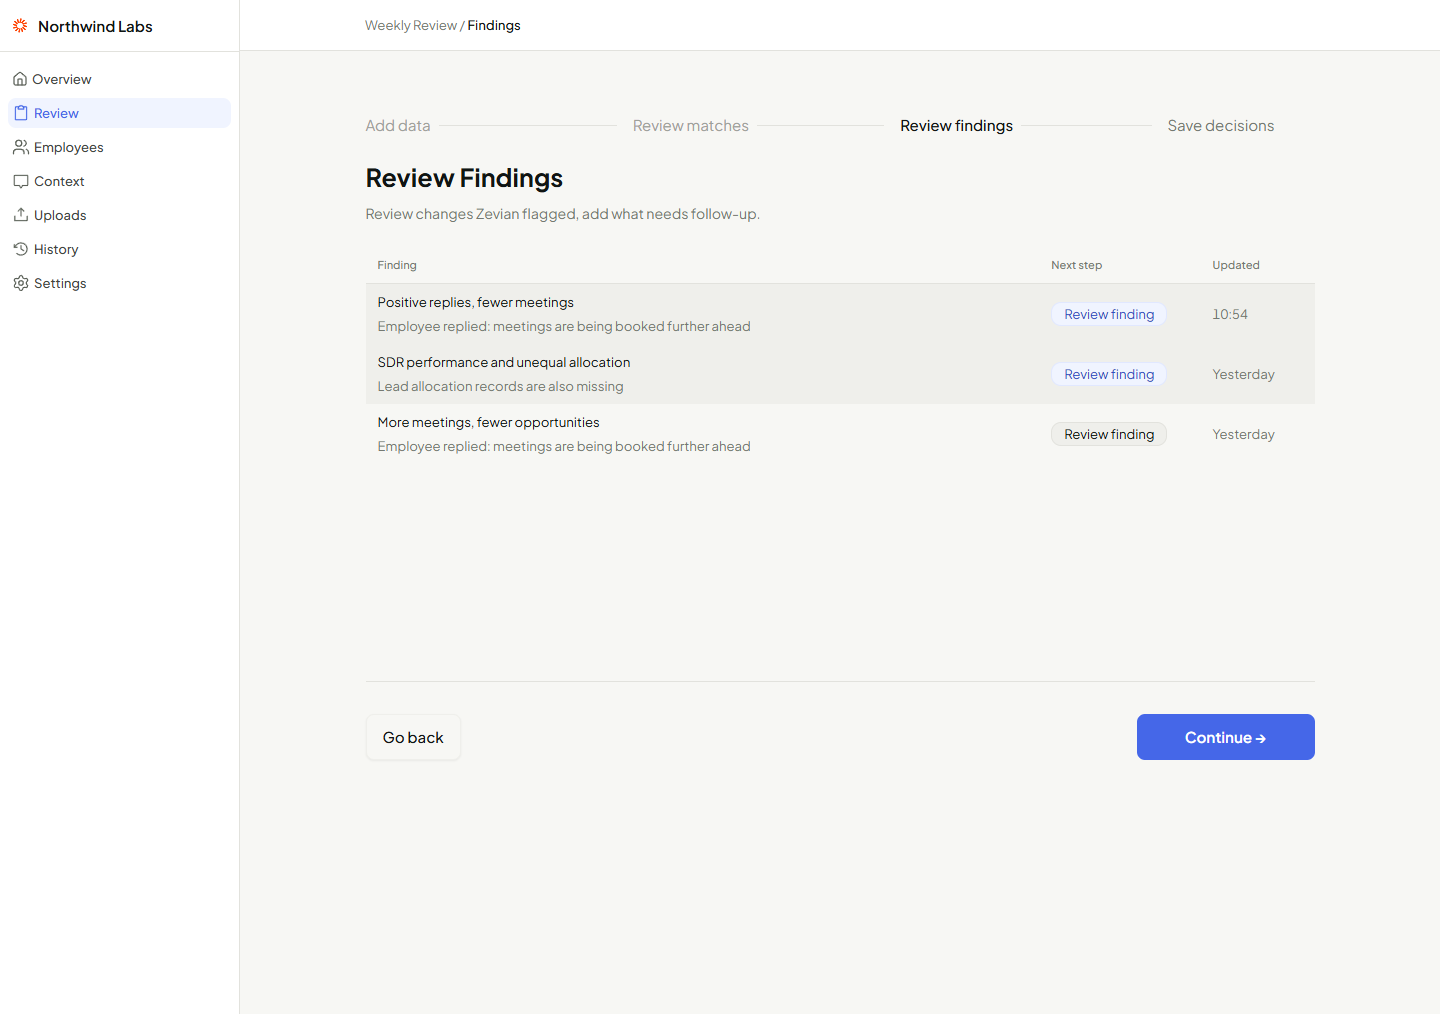
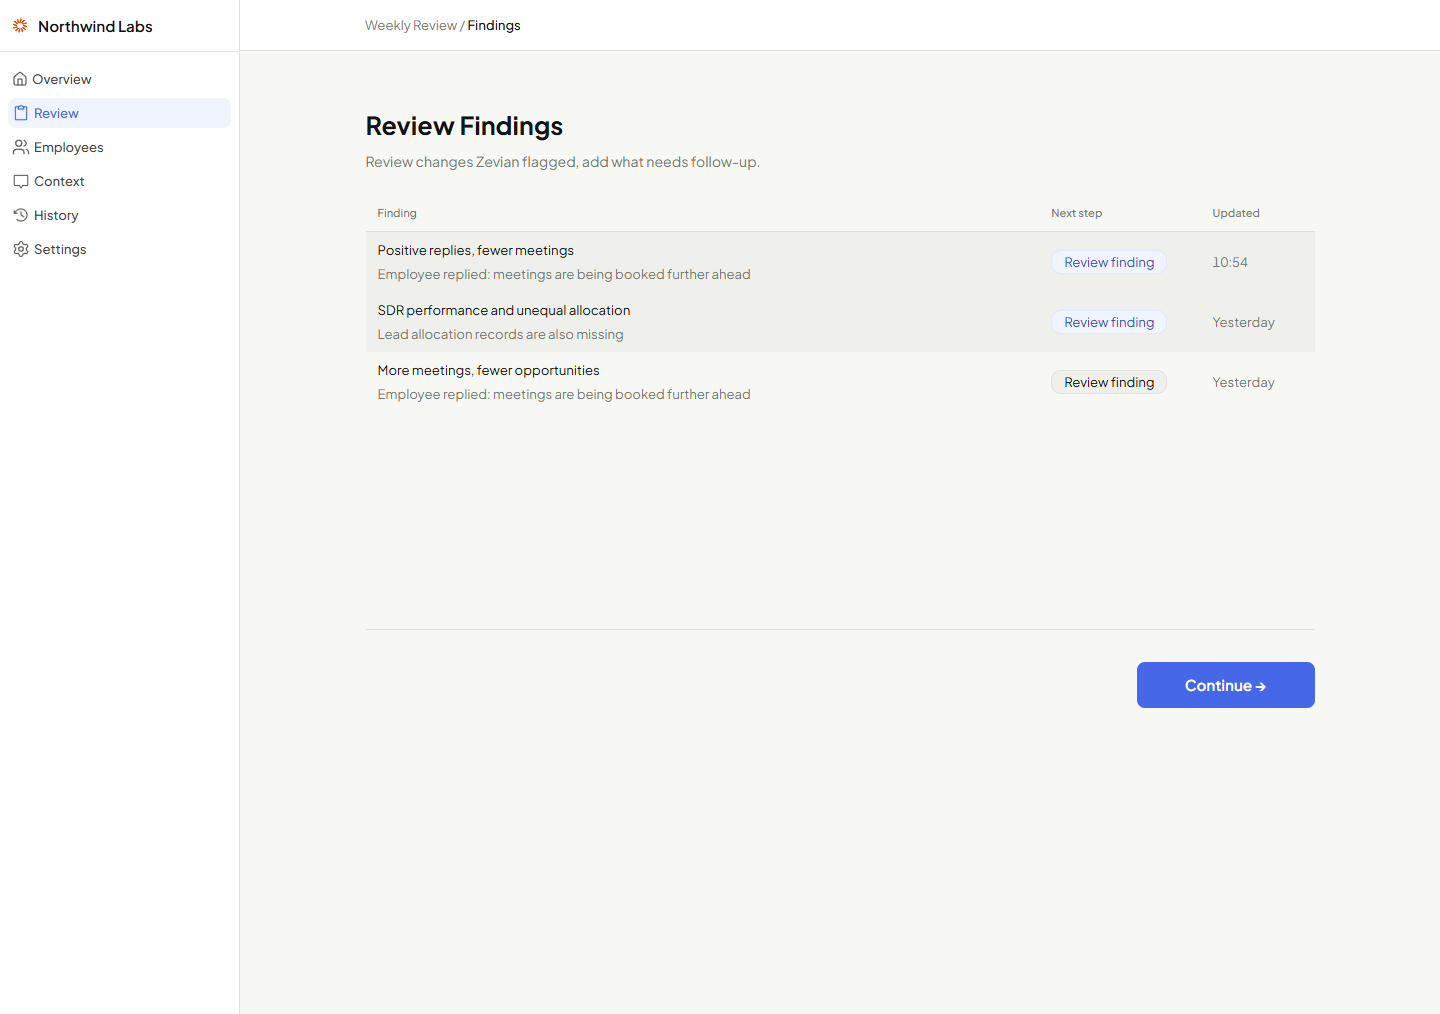
Open prototype directly on current findings and bypass imports

diff --git a/outputs/assets/zevian-review-drawer.js b/outputs/assets/zevian-review-drawer.js
@@ -210,19 +210,31 @@ if(v4Preview&&new URLSearchParams(location.search).has('drawer-variant')){
   closeFindingDrawer(false);const variant=new URLSearchParams(location.search).get('drawer-variant');const p=reviewFigmaExample(variant);
   state.patterns=[p];patternsScreen();const view=reviewView(p.id);view.cause=view.context=view.records=variant!=='collapsed';openFindingDrawer(p.id);
 }else {
+  document.body.classList.add('findings-only');
   patternsScreen=function(){
-    if(v4NeedsNameReview())return;
     findingDesignEnsureSample();
     render(v4Header('Review Findings','Review changes Zevian flagged, add what needs follow-up.','')+'<div class="finding-scroll"><table class="findings-table design-findings-table"><thead><tr><th>Finding</th><th>Next step</th><th>Updated</th></tr></thead><tbody>'+state.patterns.map(p=>{
       const reviewed=isReviewed(p),m=findingDesignModel(p),label=p.findingDesign?({'design-campaign':'Positive replies, fewer meetings','design-individual':'SDR performance and unequal allocation','design-pipeline':'More meetings, fewer opportunities'}[p.id]):m.title;
       const sub=p.findingDesign?(p.id==='design-individual'?'Lead allocation records are also missing':'Employee replied: meetings are being booked further ahead'):p.contexts.length?'Context added':v4FindingValue(p.signal,p.signal.baseline)+' → '+v4FindingValue(p.signal,p.signal.value);
       return '<tr class="finding-row '+(!p.readAt?'design-attention':'')+'" id="finding-'+p.id+'" data-read="'+!!p.readAt+'" data-action="drawer:'+p.id+'" tabindex="0" aria-label="'+(p.readAt?'Read':'Unread')+' finding: '+esc(m.title)+'"><td><span class="finding-label">'+esc(label)+'</span><span class="finding-sub">'+esc(sub)+'</span></td><td><button class="finding-badge '+(reviewed||p.readAt?'neutral':'')+'" data-action="drawer:'+p.id+'">'+(reviewed?'Reviewed':'Review finding')+'</button></td><td>'+esc(p.findingDesign?(p.id==='design-campaign'?'10:54':'Yesterday'):formatDate(p.decisionDate||p.period))+'</td></tr>';
-    }).join('')+'</tbody></table>'+(!state.patterns.length?'<p class="muted">No findings available. Add earlier periods to compare performance.</p>':'')+'</div><div class="flow-footer">'+button('Go back','mapping')+button('Continue →','decisions',true)+'</div>','patterns',2);
+    }).join('')+'</tbody></table>'+(!state.patterns.length?'<p class="muted">No findings available.</p>':'')+'</div><div class="flow-footer findings-footer">'+button('Continue →','decisions',true)+'</div>','patterns',2);
   };
-  actions.patterns=patternsScreen;
+  // Temporarily bypass data entry. Keep the import code available for a later release.
+  uploadScreen=mappingScreen=weeklyReviewScreen=patternsScreen;
+  Object.assign(actions,{patterns:patternsScreen,resume:patternsScreen,upload:patternsScreen,mapping:patternsScreen,sample:patternsScreen,manual:patternsScreen,choose:patternsScreen,detect:patternsScreen});
+  $('overviewNav').onclick=$('reviewNav').onclick=$('uploadNav').onclick=patternsScreen;
   if(v4Preview&&!['upload','match'].includes(new URLSearchParams(location.search).get('screen'))){
     const screen=new URLSearchParams(location.search).get('screen');closeFindingDrawer(false);state.patterns=findingDesignExamples();patternsScreen();
     if(['drawer','context'].includes(screen)){const params=new URLSearchParams(location.search),p=state.patterns.find(p=>p.id==='design-'+params.get('finding'))||state.patterns[0];reviewView(p.id).tab=Math.min(p.findingDesign.tabs.length-1,Math.max(0,Number(params.get('tab'))||0));openFindingDrawer(p.id);}
-  }else if($('findingDrawer'))openFindingDrawer(selected.id);
-  else if(mode==='patterns')patternsScreen();
+  }else {
+    closeFindingDrawer(false);
+    const examples=findingDesignExamples(),current=state.patterns;
+    // Keep decisions, context and read status only for the current prototype models.
+    state={upload:{id:'findings-prototype',file:'Prototype examples',sample:true,mappingStatus:'confirmed',period:'2026-10-07',demoVersion:2},columns:[],rows:[],mapping:[],records:[],history:state.upload?.id==='findings-prototype'?state.history:[],patterns:examples.map(example=>{
+      const previous=current.find(p=>p.id===example.id&&p.findingDesign);
+      if(!previous)return example;
+      return {...example,readAt:previous.readAt,contexts:previous.contexts||[],contextRequest:previous.contextRequest,investigationDecision:previous.investigationDecision,diagnosis:previous.diagnosis,status:previous.status,decisionDate:previous.decisionDate};
+    })};
+    persist();patternsScreen();
+  }
 }

diff --git a/outputs/zevian-manager-workflow.html b/outputs/zevian-manager-workflow.html
@@ -76,7 +76,7 @@ body.drawer-open{overflow:hidden}.finding-row{cursor:pointer}.finding-row:hover{
 const $=id=>document.getElementById(id),esc=v=>String(v??'').replace(/[&<>"']/g,c=>({'&':'&amp;','<':'&lt;','>':'&gt;','"':'&quot;',"'":'&#39;'}[c]));
 const fields={rep:'Rep name',period:'Reporting date',calls:'Calls',emails:'Emails',connects:'Connects',connect_rate:'Connect rate',meetings_booked:'Meetings booked',meetings_held:'Meetings held',reply_rate:'Reply rate',opportunities:'Opportunities created',pipeline:'Pipeline created',no_shows:'No-shows',cancellations:'Cancellations',revenue:'Revenue booked',qa:'QA score'};
 const aliases={rep:['rep','rep_name','name','employee_name','sdr_name'],period:['period','week','date','week_start'],opportunities:['opportunities_created'],pipeline:['pipeline_created'],revenue:['revenue_booked'],qa:['qa_score']};
-let saved;try{saved=JSON.parse(localStorage.getItem('zevian_diagnosis_v1'))}catch{}
+let saved;try{saved=JSON.parse(localStorage.getItem('zevian_findings_prototype_v1'))}catch{}
 let state=saved&&Array.isArray(saved.patterns)&&Array.isArray(saved.history)?saved:{upload:null,columns:[],rows:[],mapping:[],records:[],patterns:[],history:[]};
 let stage=0,selected=null,mode='upload',draftNote='',editingContext=null;
 // Reporting dates are date-only values: use UTC to avoid shifting the day.
@@ -84,7 +84,7 @@ function formatDate(value){if(!value)return 'Date unavailable';const date=new Da
 function formatTimestamp(value){const date=new Date(value);return Number.isNaN(date.getTime())?'Date unavailable':new Intl.DateTimeFormat('en-GB',{day:'numeric',month:'short',year:'numeric',hour:'2-digit',minute:'2-digit',hour12:false,timeZoneName:'short'}).format(date)}
 function plural(count,noun){return count+' '+noun+(count===1?'':'s')}
 function statusLabel(status){return ({needs_context:'Ready for review',diagnosis_created:'Explanation ready',monitoring:'Marked for monitoring',dismissed:'Dismissed',known_issue:'Known issue',explained:'Explained',action_recorded:'Action saved',waiting_for_data:'Waiting for new data'})[status]||'Ready for review'}
-function persist(){try{localStorage.setItem('zevian_diagnosis_v1',JSON.stringify(state));return true}catch{notify('Browser storage is unavailable. This review is kept only while the page is open.');return false}}
+function persist(){try{localStorage.setItem('zevian_findings_prototype_v1',JSON.stringify(state));return true}catch{notify('Browser storage is unavailable. This review is kept only while the page is open.');return false}}
 function notify(message){$('toast').textContent=message;$('toast').classList.remove('hidden');clearTimeout(notify.timer);notify.timer=setTimeout(()=>$('toast').classList.add('hidden'),4000)}
 function render(html,nextMode,nextStage){mode=nextMode;stage=nextStage;$('screen').innerHTML=html;$('crumb').textContent='Weekly SDR review / '+({upload:'Upload data',mapping:'Match columns',patterns:'Review findings',ask:'Ask Zevian',detail:selected?.rep||'Rep review',diagnosis:'Choose next action',history:'Decision history',processing:'Compare performance'}[mode]);$('steps').innerHTML=['Upload data','Match columns','Review findings','Save decisions'].map((s,i)=>'<li class="step '+(i===stage?'current':i<stage?'done':'')+'" '+(i===stage?'aria-current="step"':'')+'><span>'+(i+1)+'</span>'+s+'</li>').join('');$('steps').classList.toggle('hidden',['history','ask'].includes(mode));$('askNav').classList.toggle('active',mode==='ask');$('reviewNav').classList.toggle('active',!['history','ask'].includes(mode));$('historyNav').classList.toggle('active',mode==='history');$('screen').focus({preventScroll:true});window.scrollTo(0,0)}
 function button(text,fn,primary=false){return '<button class="btn '+(primary?'primary':'')+'" data-action="'+fn+'">'+text+'</button>'}

diff --git a/outputs/assets/zevian-interactions.css b/outputs/assets/zevian-interactions.css
@@ -24,6 +24,7 @@
 @media(max-width:850px){.review-drawer{width:min(675px,calc(100vw - 180px))}.review-drawer.expanded{width:calc(100vw - 180px)}}
 @media(max-width:600px){.review-drawer,.review-drawer.expanded{width:100vw}.review-drawer .drawer-body{padding:20px 20px 40px}.review-drawer .review-source-table th,.review-drawer .review-source-table td{padding-left:6px;padding-right:6px}.review-drawer .review-change{font-size:13px}.review-drawer .actions{flex-wrap:wrap}.review-drawer .review-source-table{max-width:100%}}
 /* Findings/evidence design, 4321:6757–4332:5809. */
+body.findings-only #steps,body.findings-only #uploadNav{display:none!important}.findings-footer{justify-content:flex-end}
 .finding-badge{display:inline-flex;align-items:center;justify-content:center;box-sizing:border-box;height:24px;padding:0 12px;border:1px solid var(--status-info-border);border-radius:10px;background:var(--status-info-background);color:var(--status-info-text);font:400 13px/20px 'Plus Jakarta Sans',sans-serif;letter-spacing:.065px;white-space:nowrap}
 button.finding-badge{cursor:pointer}.finding-badge.neutral{background:var(--status-neutral-background);border-color:var(--status-neutral-border);color:var(--text-primary)}.finding-badge.impact{background:var(--status-risk-background);border-color:var(--status-risk-border);color:var(--status-risk-text)}
 .design-findings-table{table-layout:fixed;width:100%;min-width:0}.design-findings-table th{font-size:11px;font-weight:500;line-height:20px;color:var(--text-muted);padding:0 12px 8px}.design-findings-table th:first-child{width:71%}.design-findings-table th:nth-child(2){width:17%}.design-findings-table th:last-child{width:12%}.design-findings-table .finding-row td{padding:8px 12px;border:0;background:var(--background-app);font-size:13px;font-weight:400}.design-findings-table .finding-row.design-attention td{background:var(--background-table-row-focus)}.design-findings-table .finding-sub{display:block;margin-top:4px;color:var(--text-muted)}.design-findings-table .finding-row td:last-child{color:var(--text-muted)}

diff --git a/outputs/tests/README.md b/outputs/tests/README.md
@@ -1,5 +1,7 @@
 # Zevian v4 verification
 
+The current public prototype starts directly on the three findings. Upload navigation, upload screens, matching screens, the old step bar, and the Go back button are hidden or bypassed. Run `zevian-findings-design.cjs` for this mode; it also checks that old saved investigation data cannot replace the current findings. The prototype uses its own storage key, `zevian_findings_prototype_v1`, and retains read status, notes and decisions on reload. Import tests below describe the retained import code and are historical while this mode is active.
+
 The normal sample review now uses the same three designed findings as the preview. Existing saved sample reviews switch to these findings when opened. The initial state is two unread and one read; opening a drawer marks that finding read and saves it across reloads. Read status is separate from optional decisions. The current browser check covers the normal sample route, its distinct tabs and content, and saved read status as well as the previews.
 
 The default findings and drawer now follow Figma nodes `4321:6757`, `4321:6857`, `4321:10320`, `4325:7042`, `4326:8964`, `4326:9166`, `4330:9399`, and `4332:5809`. Run `node outputs/tests/zevian-findings-design.cjs` with `playwright-core` available through `NODE_PATH`. It checks all seven evidence tabs, badge typography, local assets, drawer width, keyboard tabs, decisions, and mobile overflow. Preview with `?design-preview=1&screen=findings` or `?design-preview=1&screen=drawer&finding=campaign` (`individual` and `pipeline` are also available; `tab=1` selects the second tab). Figma sample values and messages stay in preview mode. Uploaded findings use their own metrics and source records. Investigate opens context and records; Record decision opens the optional review actions. The older explicit `drawer-variant` previews remain available for historical checks.

diff --git a/README.md b/README.md
@@ -2,6 +2,8 @@
 
 The main page is [outputs/zevian-manager-workflow.html](outputs/zevian-manager-workflow.html). Future prototype changes belong in this HTML file and its linked files under `outputs/assets/`.
 
+The current prototype opens straight to three findings, with two unread and one read on a fresh visit. Upload and column matching are temporarily hidden and bypassed. Each finding has its own evidence tabs. The prototype saves its read status, context and decisions under `zevian_findings_prototype_v1`; earlier imported reviews remain in their old storage key and cannot replace the current examples. The import code is retained for future use.
+
 ## Deploy on Netlify
 
 Import `RezaAlHassan/zevian-ng-plus` from GitHub into Netlify:
